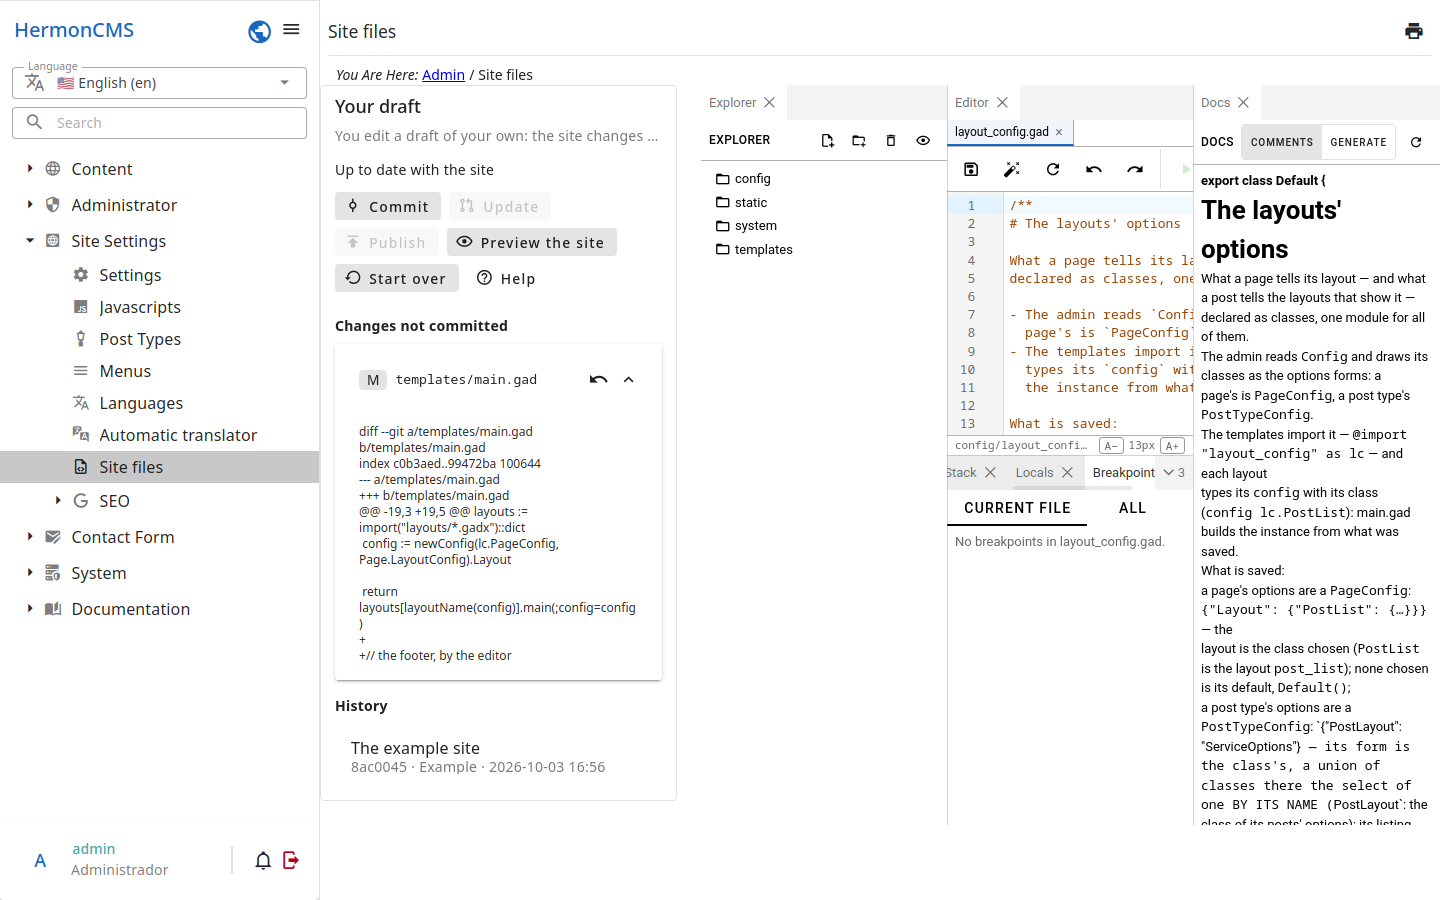
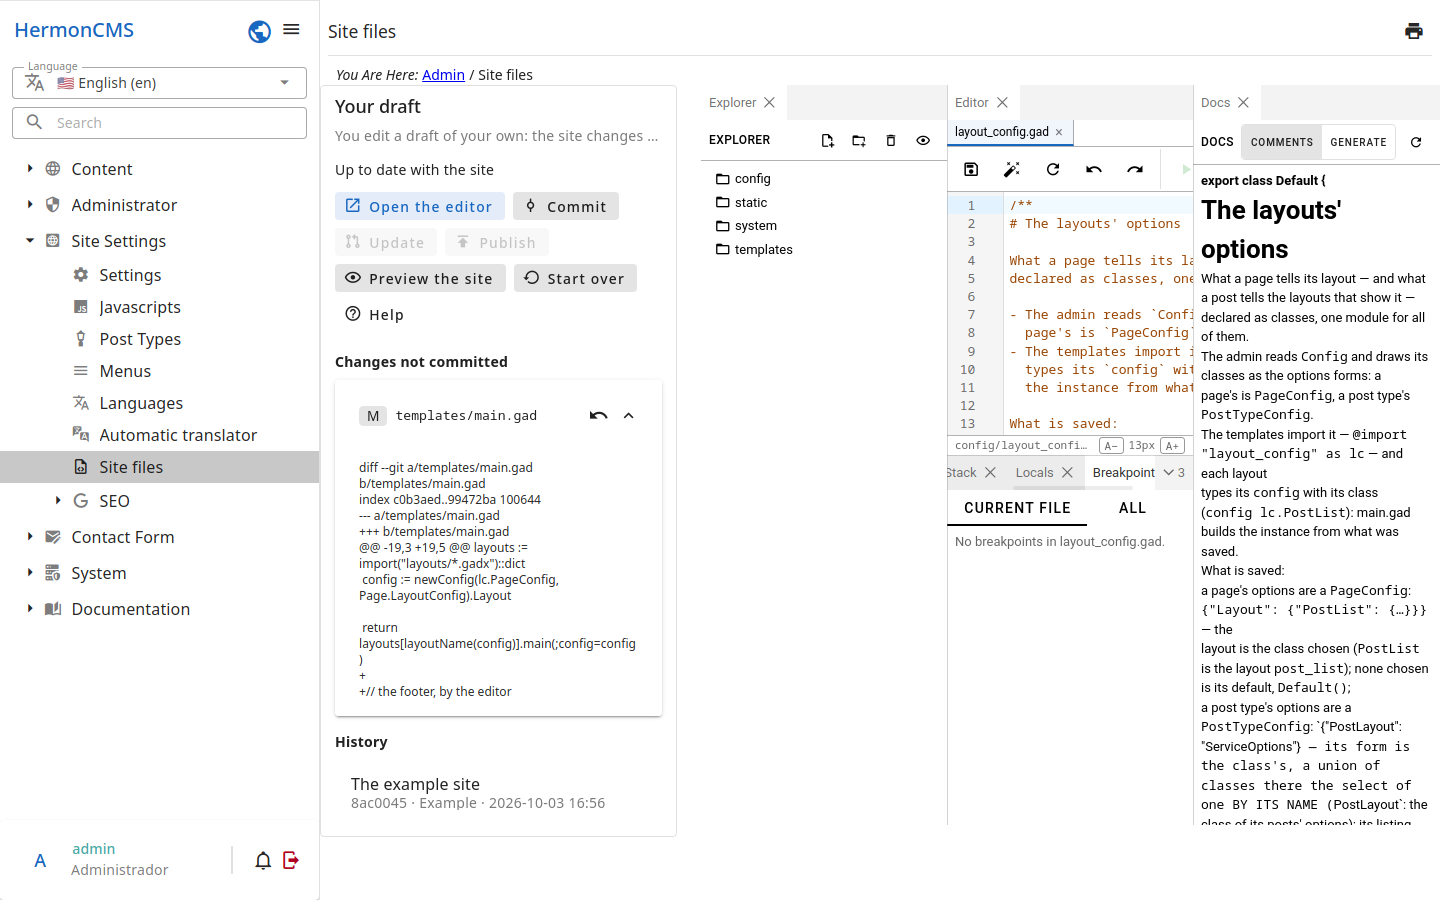
feat(gitedit): o botão Abrir o editor (a IDE numa aba própria, a janela inteira)
Em telas estreitas a IDE desce para baixo do rascunho; o botão a deixa à
vista. Os documentos e os prints com ele.

Changed region(s): [[0.2188, 0.1867, 0.4375, 0.9022]]

diff --git a/admin/packages/gitedit/builder.go b/admin/packages/gitedit/builder.go
@@ -379,6 +379,10 @@ func (b *Builder) pageFunc(ctx *web.EventContext) (r web.PageResponse, err error
 		).Density(v.DensityCompact))
 	}
 
+	ideURL := strings.TrimSuffix(b.idePage.FullPath(), "{rest...}") + "index.html"
+	// the IDE in a tab of its own, the whole window
+	openIDE := v.VBtn(m.OpenIDE).PrependIcon("mdi-open-in-new").Variant(v.VariantTonal).Color("primary").
+		Size(v.SizeSmall).Class("me-2 mb-2").Href(ideURL).Attr("target", "_blank")
 	var help h.HTMLComponent
 	if b.HelpURL != "" {
 		help = v.VBtn(m.Help).PrependIcon("mdi-help-circle-outline").Variant(v.VariantText).Size(v.SizeSmall).
@@ -399,6 +403,7 @@ func (b *Builder) pageFunc(ctx *web.EventContext) (r web.PageResponse, err error
 					v.VCardSubtitle(h.Text(m.DraftHint)),
 					v.VCardText(
 						h.P(h.Text(state)).Class("mb-3"),
+						openIDE,
 						btn(ActionCommit, m.CommitAction, "mdi-source-commit", len(changes) > 0),
 						btn(ActionUpdate, m.UpdateAction, "mdi-source-pull", sync.Behind > 0),
 						btn(ActionPublish, m.PublishAction, "mdi-publish", sync.Ahead > 0 && len(changes) == 0),
@@ -413,7 +418,7 @@ func (b *Builder) pageFunc(ctx *web.EventContext) (r web.PageResponse, err error
 				).Variant(v.VariantOutlined),
 			).Cols(12).Lg(4),
 			v.VCol(
-				h.Iframe().Src(strings.TrimSuffix(b.idePage.FullPath(), "{rest...}")+"index.html").Attr("title", m.Files).
+				h.Iframe().Src(ideURL).Attr("title", m.Files).
 					Style("width: 100%; height: calc(100vh - 160px); border: 0"),
 			).Cols(12).Lg(8),
 		),

diff --git a/admin/packages/gitedit/messages.go b/admin/packages/gitedit/messages.go
@@ -34,6 +34,7 @@ type Messages struct {
 	Files             string `i18n:"hint='Title of the editor of the files (the IDE).'"`
 	Preview           string `i18n:"hint='Button that opens the site as the draft makes it.'"`
 	Help              string `i18n:"hint='Button that opens the documentation of the editor of the files.'"`
+	OpenIDE           string `i18n:"hint='Button that opens the editor of the files (the IDE) in a tab of its own.'"`
 
 	CommitAction      string `i18n:"label='Commit', hint='Action that records the changes of the draft, with a message.'"`
 	UpdateAction      string `i18n:"label='Update', hint='Action that brings into the draft what others published.'"`
@@ -68,6 +69,7 @@ var Messages_en_US = &Messages{
 	Files:             "Files",
 	Preview:           "Preview the site",
 	Help:              "Help",
+	OpenIDE:           "Open the editor",
 	CommitAction:      "Commit",
 	UpdateAction:      "Update",
 	PublishAction:     "Publish",
@@ -100,6 +102,7 @@ var Messages_pt_BR = &Messages{
 	Files:             "Arquivos",
 	Preview:           "Ver o site do rascunho",
 	Help:              "Ajuda",
+	OpenIDE:           "Abrir o editor",
 	CommitAction:      "Commit",
 	UpdateAction:      "Atualizar",
 	PublishAction:     "Publicar",

diff --git a/admin/packages/gitedit/builder_test.go b/admin/packages/gitedit/builder_test.go
@@ -75,7 +75,7 @@ func TestBuilder(t *testing.T) {
 
 	w := httptest.NewRecorder()
 	h.ServeHTTP(w, httptest.NewRequest("GET", "/admin/site-files", nil))
-	if w.Code != 200 || !strings.Contains(w.Body.String(), "/admin/site-files/ide/") {
+	if w.Code != 200 || !strings.Contains(w.Body.String(), "/admin/site-files/ide/index.html") || !strings.Contains(w.Body.String(), "Open the editor") {
 		t.Fatalf("the page: %d %.300s", w.Code, w.Body.String())
 	}
 	// the site of the draft, under the admin

diff --git a/admin/packages/gitedit/user_docs/pt-BR/pages/site-files/README.md b/admin/packages/gitedit/user_docs/pt-BR/pages/site-files/README.md
@@ -8,8 +8,9 @@ editados aqui, num **rascunho** só seu: o site muda só quando você
 
 Passo a passo, com o desenvolvimento local: o guia {%= admin.doc("guides/site-files").link %} — também o botão **Ajuda** da página.
 
-- **Arquivos** é o editor: a árvore dos arquivos, e cada arquivo aberto numa
-  aba. Salvar muda só o seu rascunho.
+- **Arquivos** é o editor, à direita (em telas estreitas, abaixo): a árvore
+  dos arquivos, e cada arquivo aberto numa aba. **Abrir o editor** o abre numa
+  aba só dele, na janela inteira. Salvar muda só o seu rascunho.
 - **Seu rascunho** diz onde ele está: commits para publicar, commits que
   outros publicaram e ele não tem.
 - **Alterações sem commit** lista cada arquivo mudado desde o último commit;

diff --git a/admin/packages/gitedit/user_docs/en/pages/site-files/README.md b/admin/packages/gitedit/user_docs/en/pages/site-files/README.md
@@ -8,8 +8,9 @@ edited here, in a **draft** of your own: the site changes only when you
 
 Step by step, with the local development: the guide {%= admin.doc("guides/site-files").link %} — also the page's **Help** button.
 
-- **Files** is the editor: the tree of the files, and each file open in a tab.
-  Saving changes your draft only.
+- **Files** is the editor, on the right (on narrow screens, below): the tree of
+  the files, and each file open in a tab. **Open the editor** opens it in a tab
+  of its own, the whole window. Saving changes your draft only.
 - **Your draft** says where it stands: commits to publish, commits others
   published that it does not have.
 - **Changes not committed** lists each file changed since the last commit;
